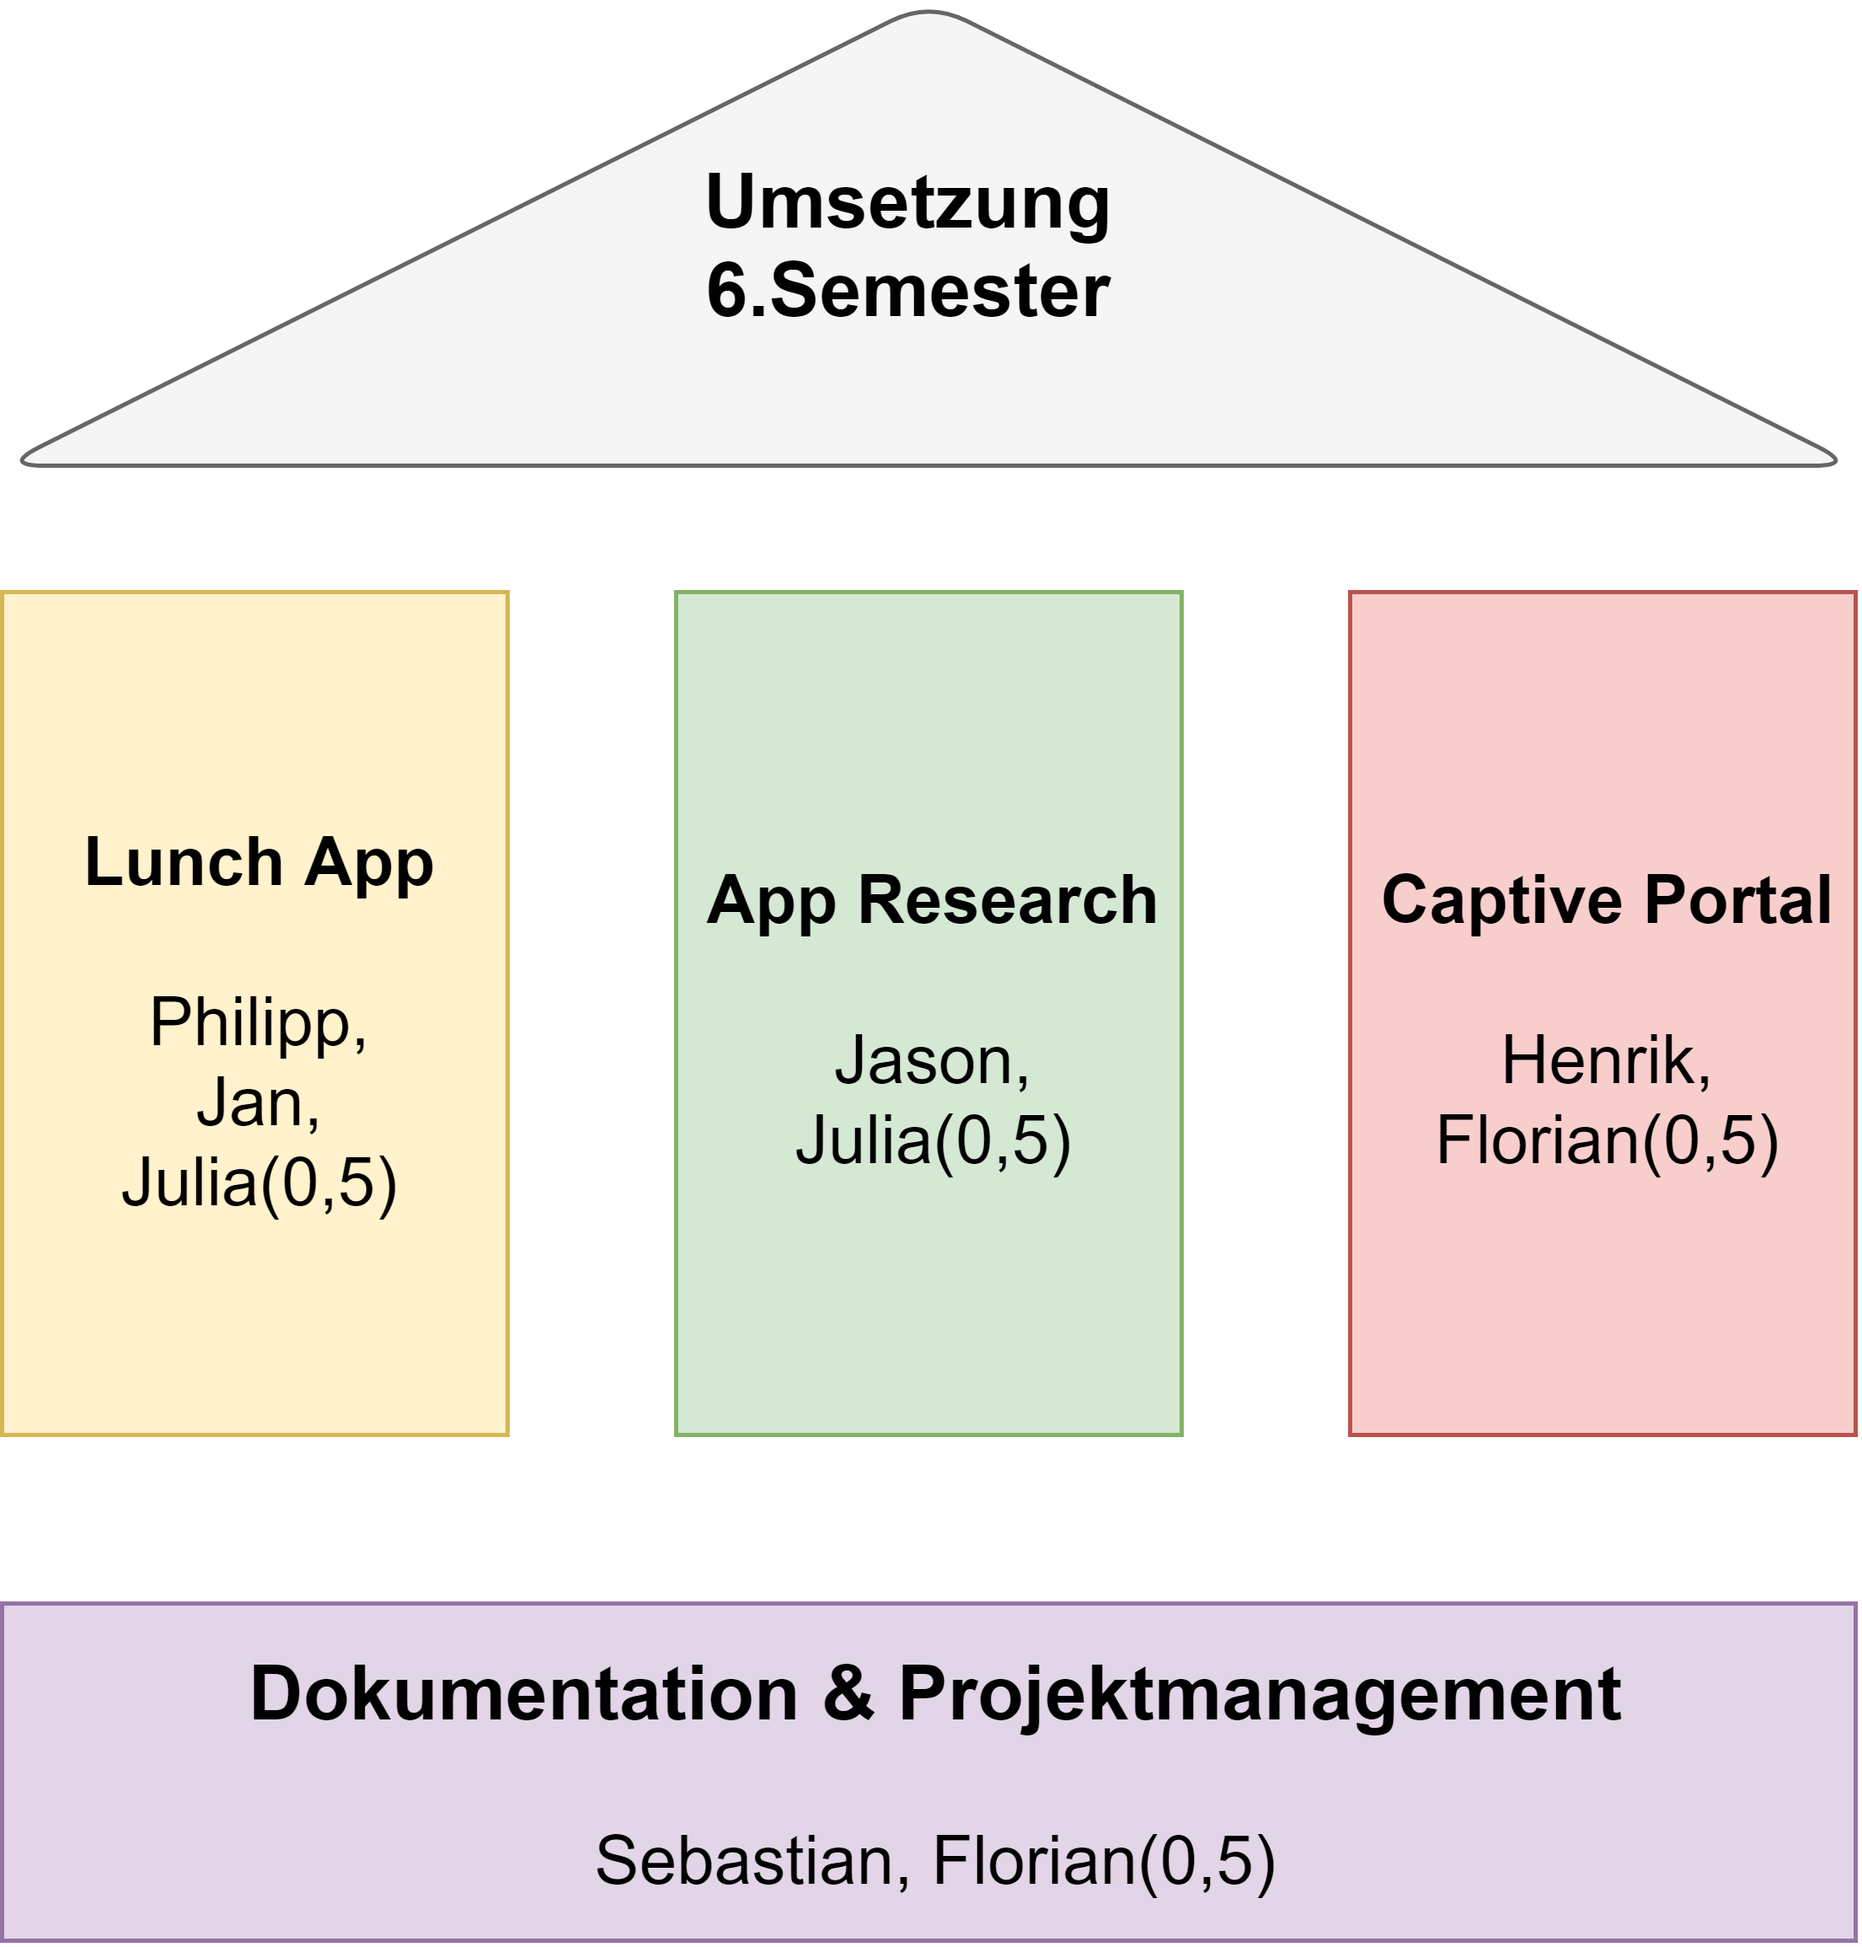
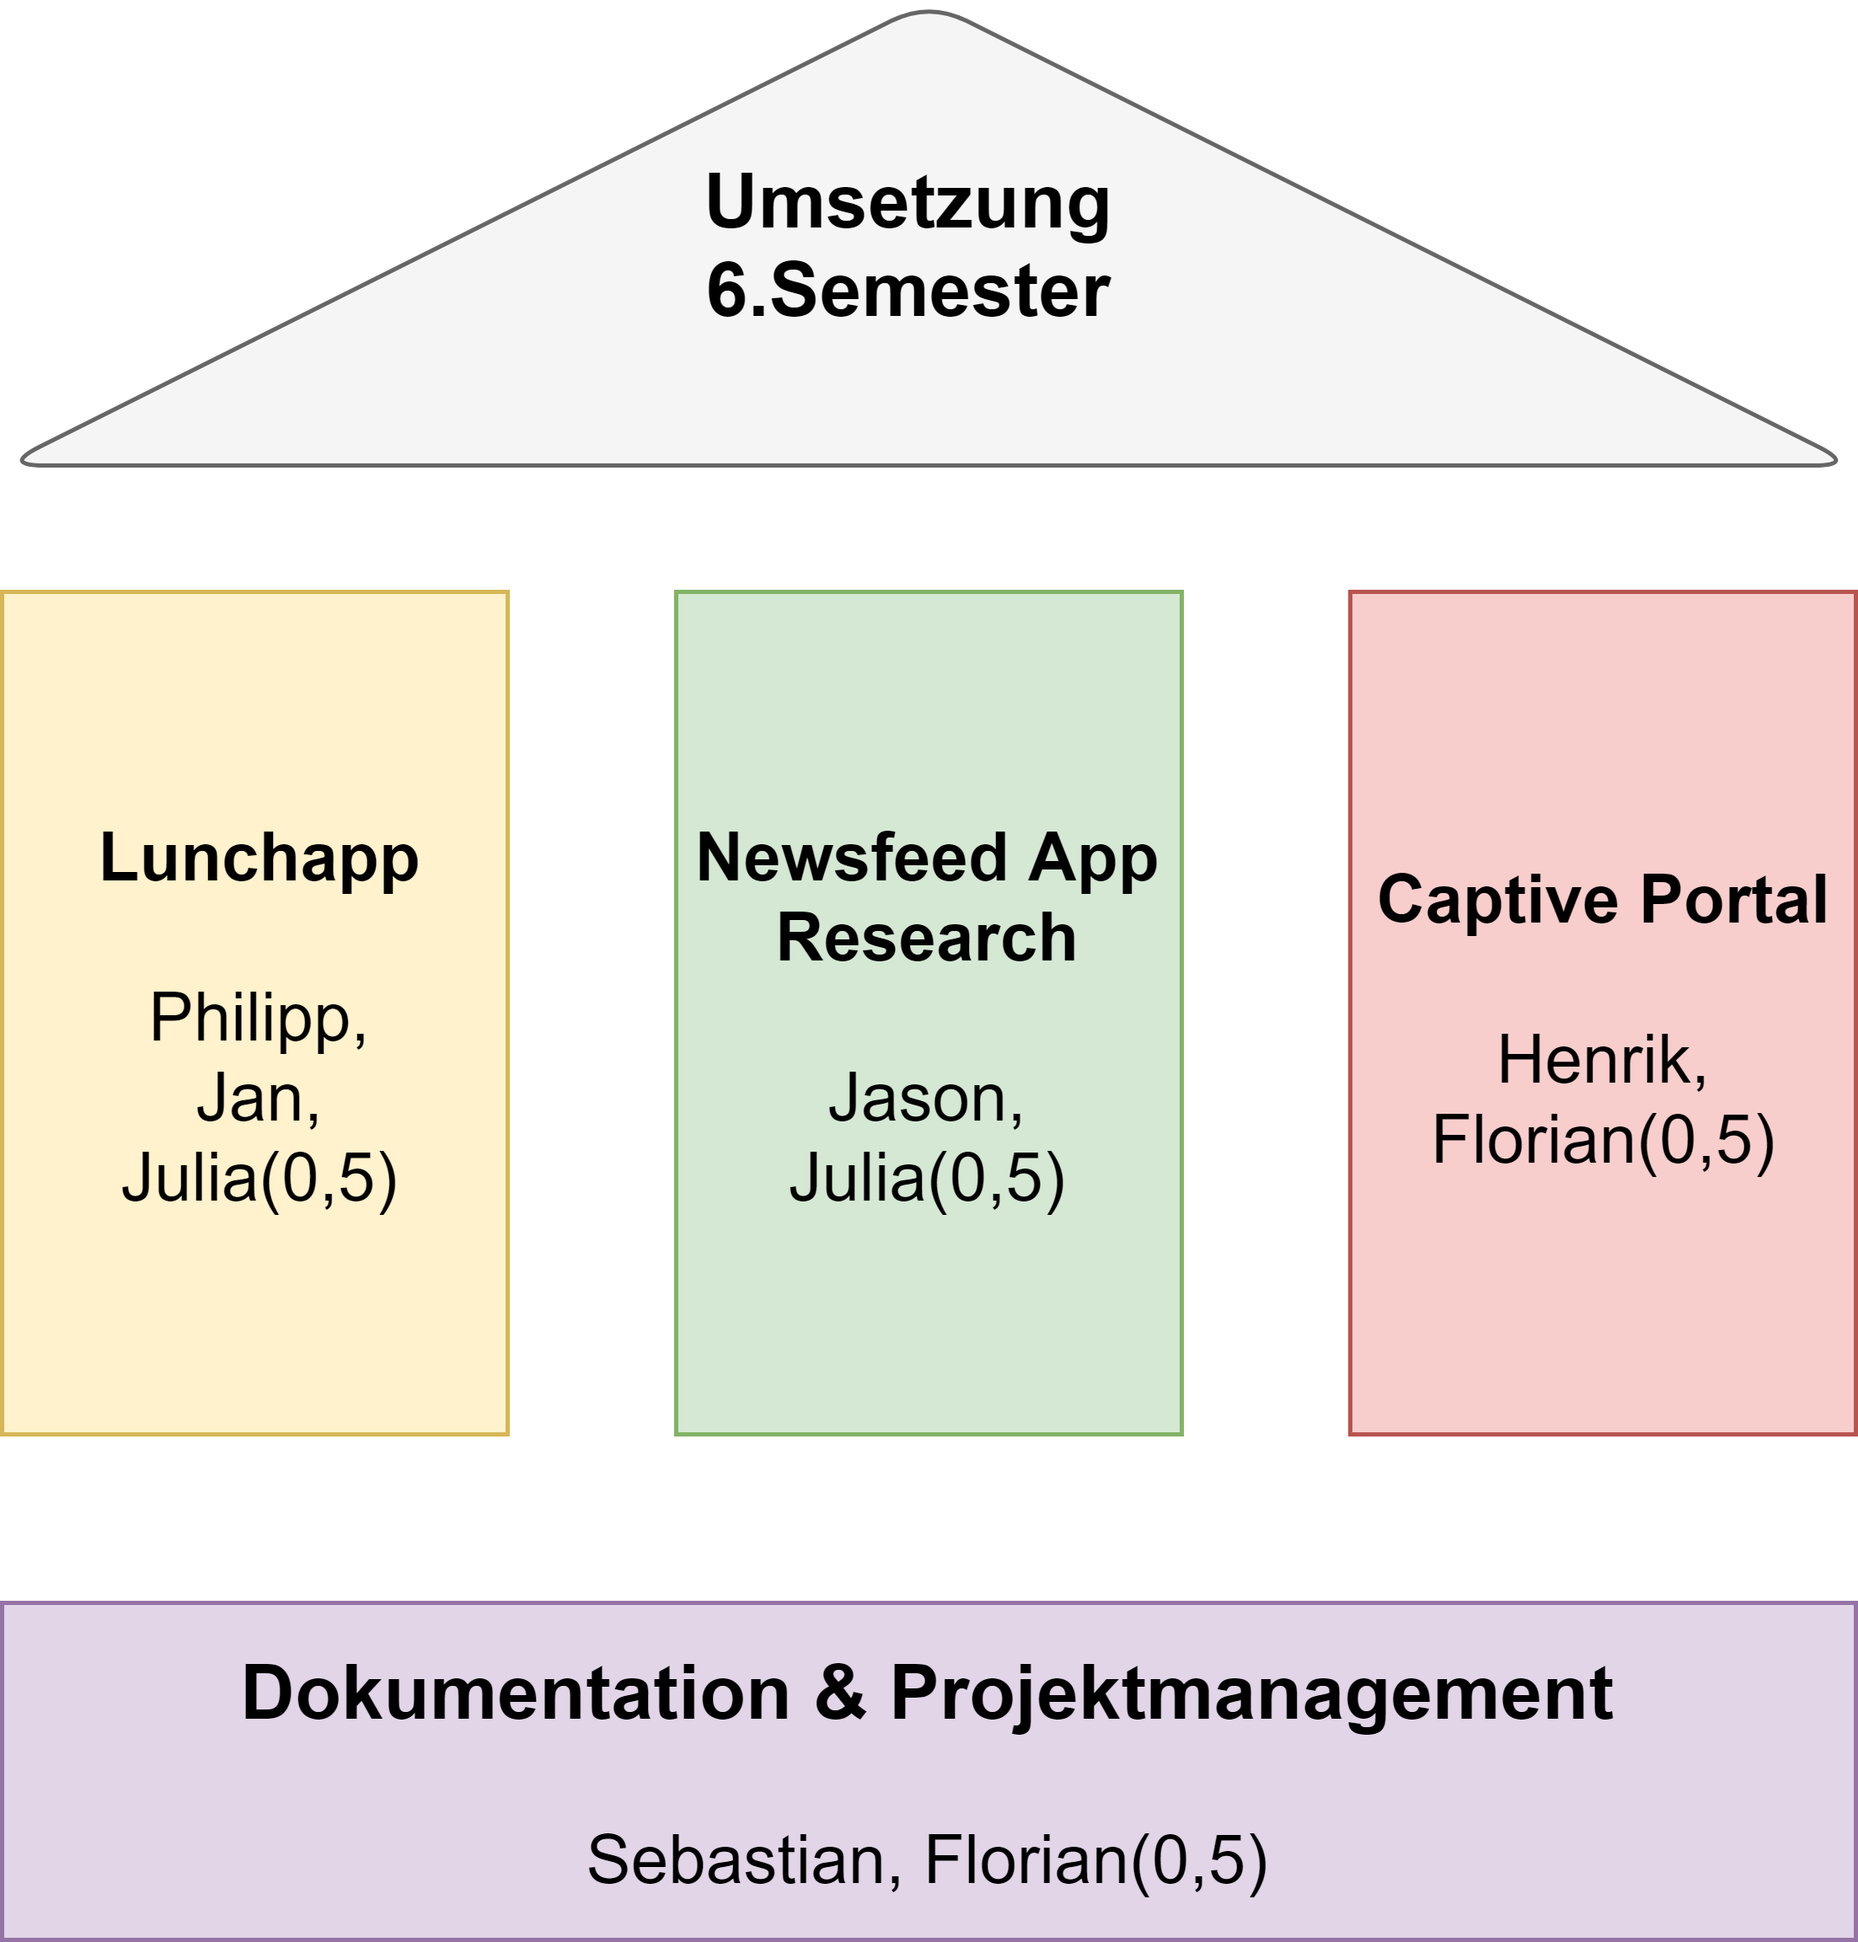
organigram aktualisiert

diff --git a/reports/6. Semester - gesamt/chapters/frame/organigram.tex b/reports/6. Semester - gesamt/chapters/frame/organigram.tex
@@ -6,10 +6,10 @@ In diesem Kapitel wird die Organisationsstruktur des kompletten Projektes erläu
 Während des fünften Semesters befand sich das Projekt in der Konzeptionierungsphase. Für diese wurde das Projektteam in vier Teams eingeteilt. Dementsprechend haben alle Teammitglieder an der Umsetzung der Aufgaben teilgenommen, die Verantwortung für einzelne Aufgaben wurde jedoch auf diese vier Teams verteilt. Im Folgenden werden diese Teams und deren dazugehörige Aufgabe dargestellt:
 
 \begin{description}
-\item[Kommunikation mit Pulseshift]\hfill \\
-- Schnittstelle zu Pulseshift\\
-- Organisieren und Leiten von Meetings mit Pulseshift\\
-- Abgleich der Anforderungen von Pulseshift mit der Ausführung
+\item[Kommunikation mit PulseShift\\]\hfill \\
+- Schnittstelle zu PulseShift\\
+- Organisieren und Leiten von Meetings mit PulseShift\\
+- Abgleich der Anforderungen von PulseShift mit der Ausführung
 
 
 \item[Ideengenerierung und Sammlung]\hfill \\
@@ -47,14 +47,14 @@ Im anschließenden sechsten Semesters wurde auf Basis der Konzeptionierungsphase
 
 \begin{description}
 \item[Lunchapp]\hfill \\
-- Entwickelt Lunchapp als Beispiel für eine Single Purpose Webapp
+- Entwickelt Single-Purpose-Webapp\\
 - Informationen über Essenspläne werden angezeigt\\
-- Push-Notifications weisen auf mögliche Umfragen hin
+- Push-Notifications weißen auf mögliche Umfragen hin
 
 
 \item[Newsfeed App Research]\hfill \\
 - Untersucht bereits vorhandene Apps im Markt\\
-- Überprüft ob Pulseshift diese Apps für Umfragen nutzen kann
+- Überprüft ob PulseShift diese Apps für Umfragen nutzen kann
 
 \item[Captive Portal]\hfill \\
 - Untersucht Hardwarelösungen mit Captive Portal Funktionalität\\
@@ -67,7 +67,7 @@ Im anschließenden sechsten Semesters wurde auf Basis der Konzeptionierungsphase
 - Erstellung einer Gesamtdokumentation
 \end{description}
 
-In \vref{organigramm_semester6} ist der zuvor erläuterte Aufbau der Organisation visualisiert.
+In \vref{organigramm_semester5} ist der zuvor erläuterte Aufbau der Organisation visualisiert.
 
 \begin{figure}[h]
 \centering
